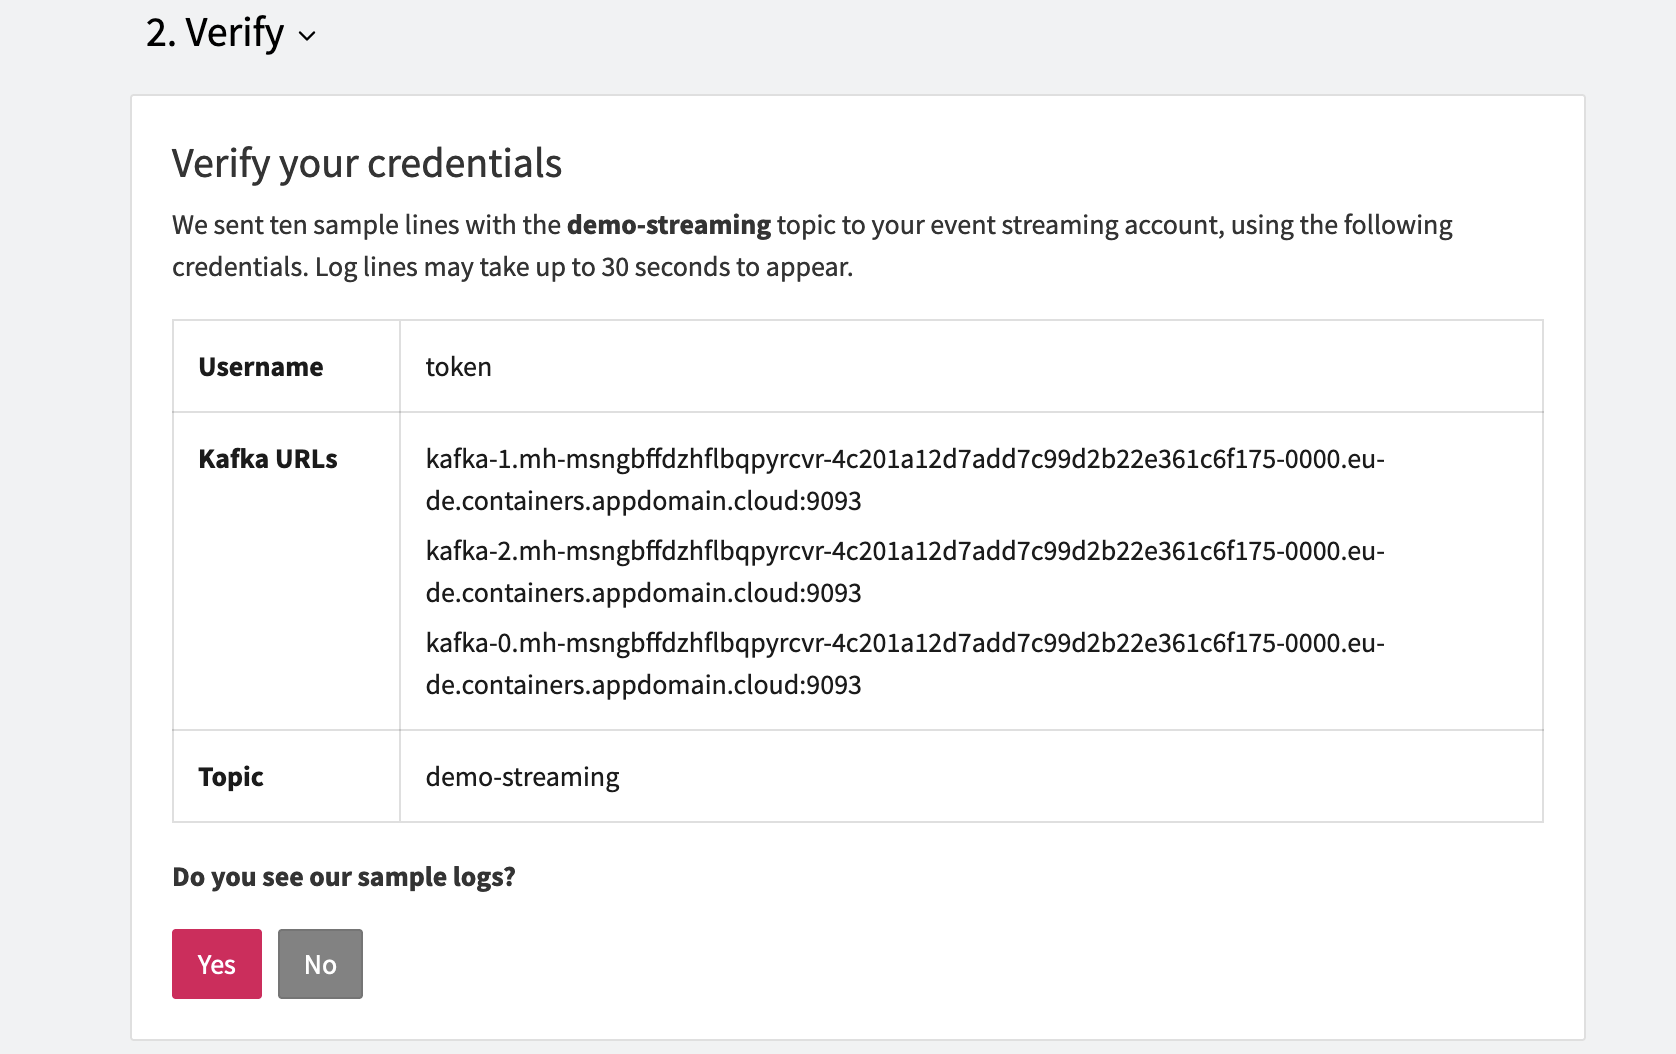
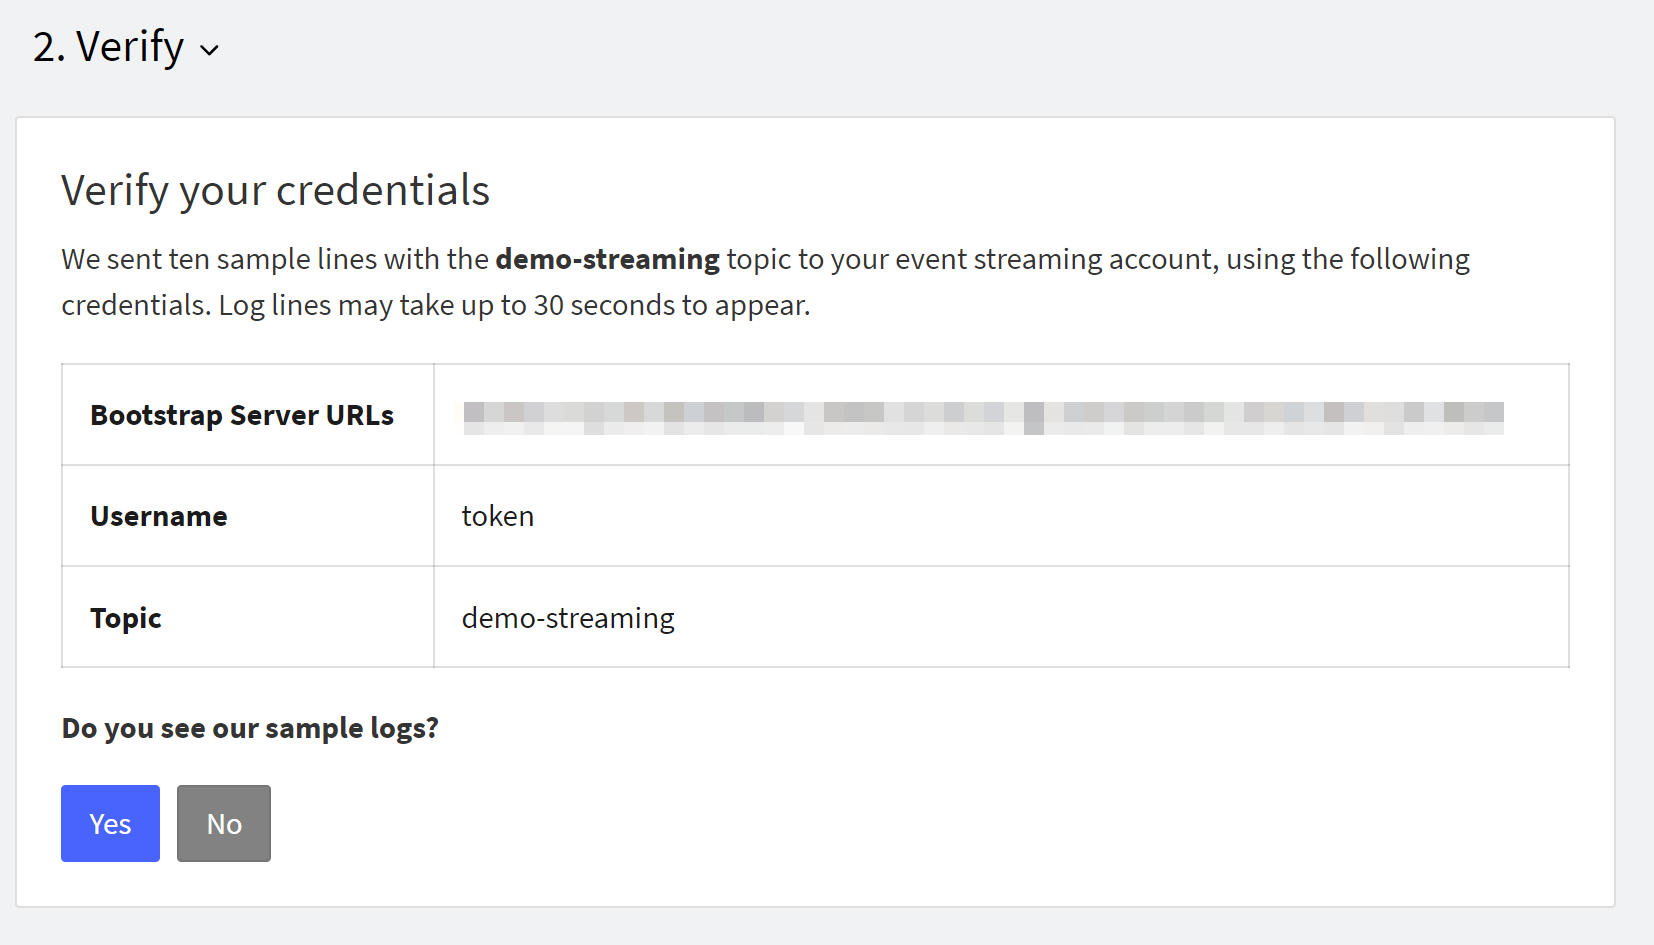
Activity Tracker

diff --git a/troubleshoot-05.md b/troubleshoot-05.md
@@ -1,0 +1,36 @@
+---
+
+copyright:
+  years: 2022
+lastupdated: "2021-02-08"
+
+keywords: IBM Cloud, Activity Tracker, streaming, troubleshooting
+
+subcollection: activity-tracker
+
+content-type: troubleshoot
+
+---
+
+{{site.data.keyword.attribute-definition-list}}
+
+# Are you getting a failed to connect message when configuring streaming?
+{: #troubleshoot-05}
+{: troubleshoot}
+{: support} 
+
+You are trying to configure streaming and receive a "failure to connect" error.
+{: shortdesc}
+
+You are trying to configure streaming and receive a message similar to the following: `Failed to connect: Port should be >= 0 and < 65536. Received NaN.`
+{: tsSymptoms}
+
+You are attempting to configure multiple **Bootstrap Server URLs** at the same time.
+{: tsCauses}
+
+Configure **Bootstrap Server URLs** one at a time clicking **Add another URL** to add each new URL.  Multiple URLs cannot be specified in a single **Bootstrap Server URLs** field and the **Bootstrap Server URLs** cannot include quotes or commas.
+{: tsResolve}
+
+
+
+

diff --git a/streaming-configure.md b/streaming-configure.md
@@ -137,10 +137,10 @@ Complete the following steps to configure the connection in {{site.data.keyword.
 
     2. In the **Password** field, enter the `api_key` that is associated with the service credential that you want to use to authenticate {{site.data.keyword.at_short}} with {{site.data.keyword.messagehub}}.
 
-    3. In the **Kafka URLs** section, enter the `kafka_brokers_sasl` values that are listed in the service credential. 
+    3. In the **Bootstrap Server URL** section, enter the `kafka_brokers_sasl` values that are listed in the service credential. 
     
-        You must enter each URL as an individual line.
-        {: note}
+       You must enter each URL as individual entries.  If you need to add additional URLs, click **Add another URL** to add each additional URL.
+       {: note}
 
     4. Enter the name of a topic.
     
